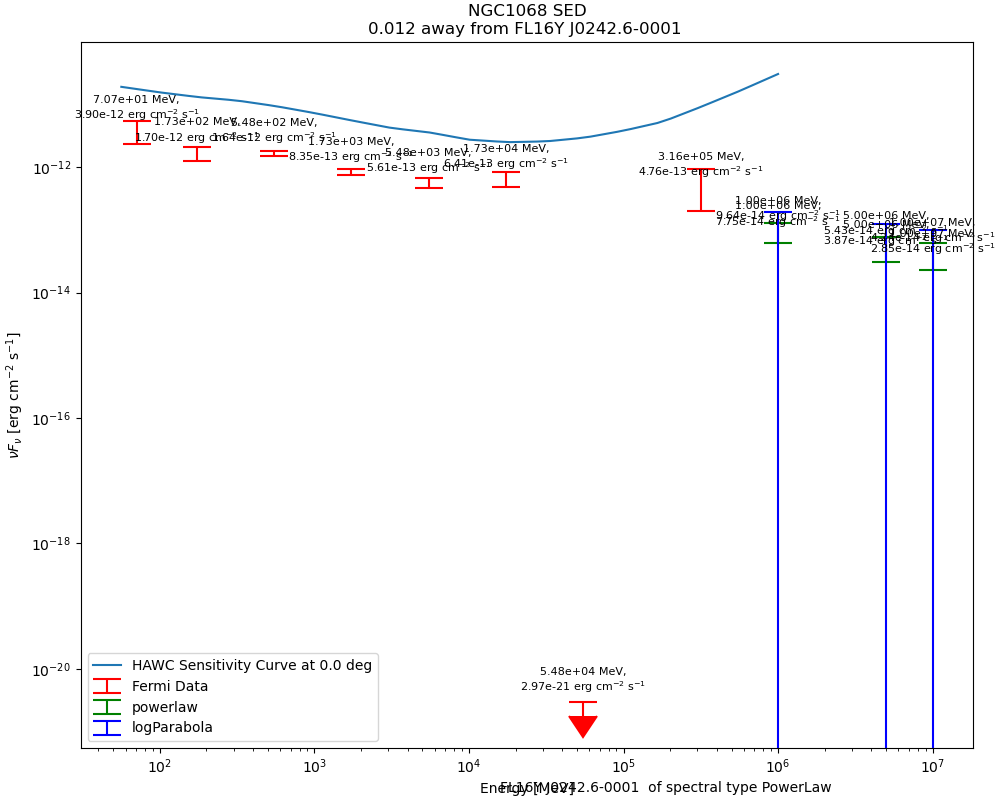
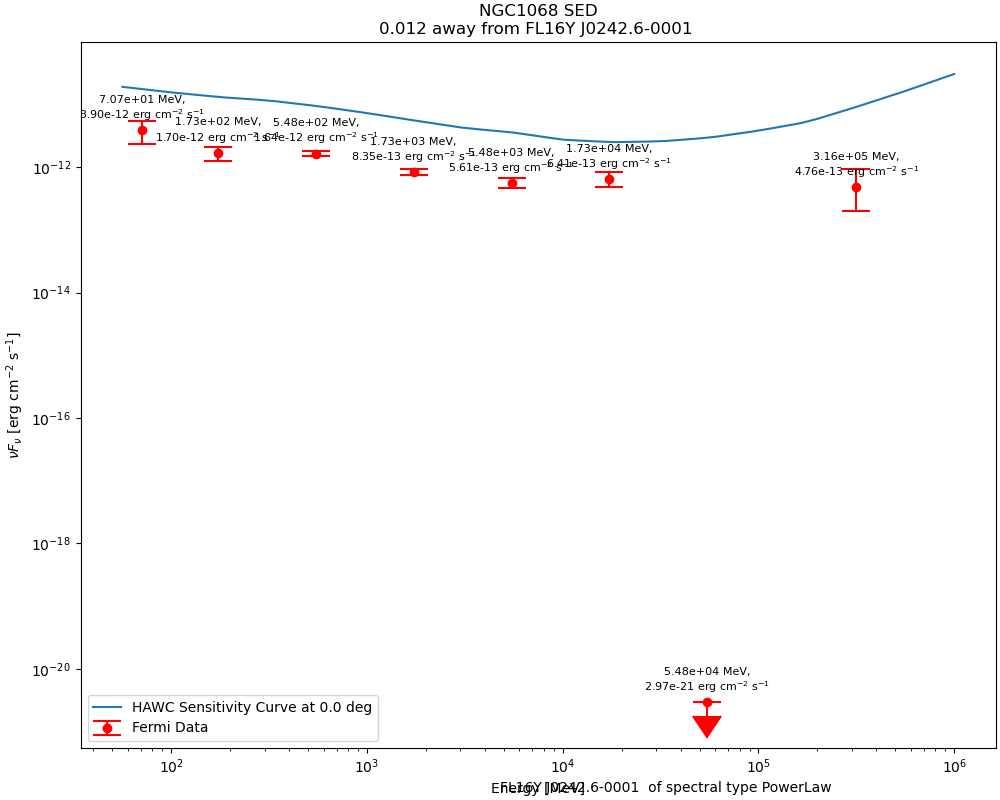
m

diff --git a/fermi/sourcesfermi.py b/fermi/sourcesfermi.py
@@ -200,7 +200,7 @@ for i, s in enumerate(sourceName):
 
         plt.errorbar(e_mids,nufnu[i],
                 yerr=[unc_nufnu_lower[i],unc_nufnu_upper[i]],
-                uplims=uplim_mask,color='r',fmt='none',
+                uplims=uplim_mask,color='r',fmt='o',
                 capsize=10,capthick=1.5,elinewidth=1.5,
                 label="Fermi Data")
         for x, y in zip(e_mids, nufnu[i]):
@@ -208,26 +208,26 @@ for i, s in enumerate(sourceName):
                 xy=(x, y), xytext=(0, 8),
                 textcoords='offset points',
                 fontsize=8, ha='center')
-    
-        plt.errorbar(sy_en,nuFnu_PL,
-                yerr=nuFnu_PL_err, color='g',fmt='none',
-                capsize=10,capthick=1.5,elinewidth=1.5,
-                label="powerlaw")
-        for x, y in zip(sy_en, nuFnu_PL):
-            plt.annotate(f"{x:.2e} MeV,\n{y:.2e} erg cm$^{{-2}}$ s$^{{-1}}$",
-                xy=(x, y), xytext=(0, 8),
-                textcoords='offset points',
-                fontsize=8, ha='center')
-    
-        plt.errorbar(sy_en,nuFnu_LP,
-                yerr=nuFnu_LP_err,color='b',fmt='none',
-                capsize=10,capthick=1.5,elinewidth=1.5,
-                label="logParabola")
-        for x, y in zip(sy_en, nuFnu_LP):
-            plt.annotate(f"{x:.2e} MeV,\n{y:.2e} erg cm$^{{-2}}$ s$^{{-1}}$",
-                xy=(x, y), xytext=(0, 8),
-                textcoords='offset points',
-                fontsize=8, ha='center')
+        if spectype[i] == "PowerLaw": 
+            plt.errorbar(sy_en,nuFnu_PL,
+                  yerr=nuFnu_PL_err, color='g',fmt='o',
+                  capsize=10,capthick=1.5,elinewidth=1.5,
+                  label="powerlaw")
+            for x, y in zip(sy_en, nuFnu_PL):
+                plt.annotate(f"{x:.2e} MeV,\n{y:.2e} erg cm$^{{-2}}$ s$^{{-1}}$",
+                  xy=(x, y), xytext=(0, 8),
+                  textcoords='offset points',
+                  fontsize=8, ha='center')
+        elif spectype[i] == "LogParabola":
+            plt.errorbar(sy_en,nuFnu_LP,
+                  yerr=nuFnu_LP_err,color='b',fmt='o',
+                  capsize=10,capthick=1.5,elinewidth=1.5,
+                  label="logParabola")
+            for x, y in zip(sy_en, nuFnu_LP):
+                plt.annotate(f"{x:.2e} MeV,\n{y:.2e} erg cm$^{{-2}}$ s$^{{-1}}$",
+                  xy=(x, y), xytext=(0, 8),
+                  textcoords='offset points',
+                  fontsize=8, ha='center')
 
         plt.plot(Esmooth,Ssmooth,label='HAWC Sensitivity Curve at 0.0 deg')    
 
